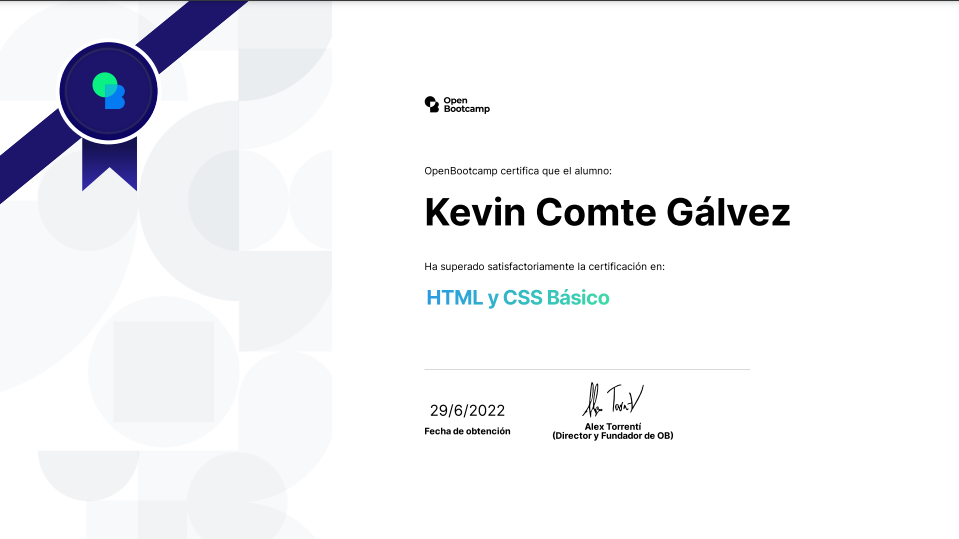
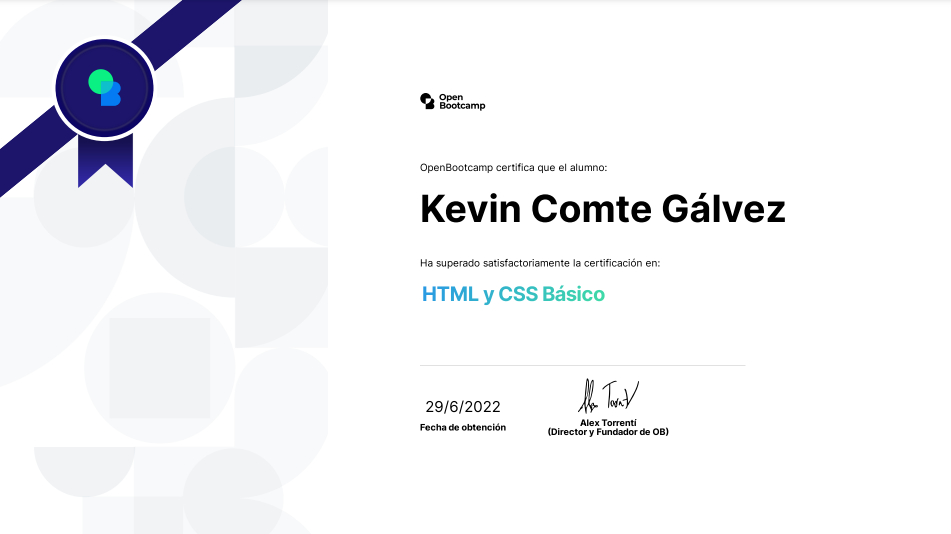
2 arreglo imagen

diff --git a/css/styles.css b/css/styles.css
@@ -320,6 +320,7 @@ header a:hover {
   transition: 0.4s;
   border: 1px solid antiquewhite;
   border-radius: 10px;
+  overflow: hidden;
 }
 
 .certificados-info p {
@@ -353,7 +354,7 @@ header a:hover {
   max-width: 20rem;
   max-height: 15rem;
   margin: 0;
-  border-radius: 10px 10px 0 0;
+  /* border-radius: 10px 10px 0 0; */
 }
 
 .carta-certificacion {
@@ -514,7 +515,7 @@ header a:hover {
 #proyectos .certificados-info img {
   max-width: 20rem;
   max-height: 15rem;
-  border-radius: 10px 10px 0 0;
+  /* border-radius: 10px 10px 0 0; */
 }
 #proyectos .certificados-info p {
   padding: 0 10px;
@@ -811,6 +812,7 @@ footer a:hover {
     transition: 0.4s;
     border: 1px solid antiquewhite;
     border-radius: 10px;
+    overflow: hidden;
   }
 
   .certificados-info p {
@@ -843,7 +845,7 @@ footer a:hover {
     max-width: 45rem;
     max-height: 20rem;
     margin: 0;
-    border-radius: 10px 10px 0 0;
+    /* border-radius: 10px 10px 0 0; */
   }
 
   /* Sección proyectos */
@@ -881,7 +883,7 @@ footer a:hover {
   #proyectos .certificados-info img {
     max-width: 45rem;
     max-height: 20rem;
-    border-radius: 10px 10px 0 0;
+    /* border-radius: 10px 10px 0 0; */
   }
 
   /* Sección contacto */
